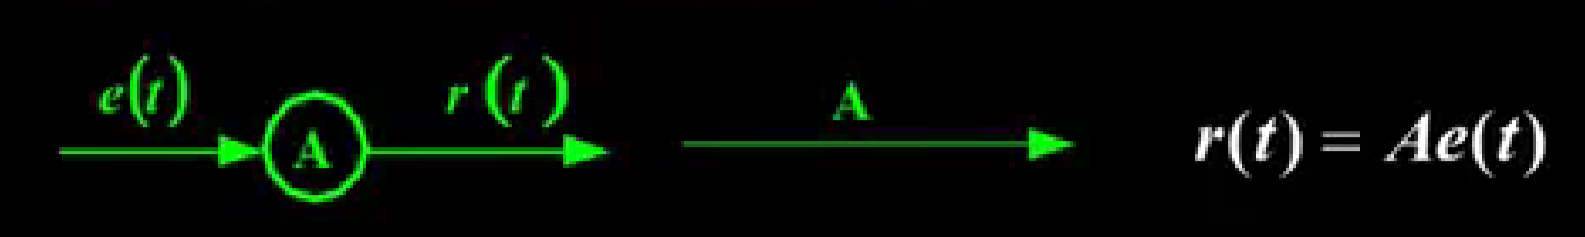
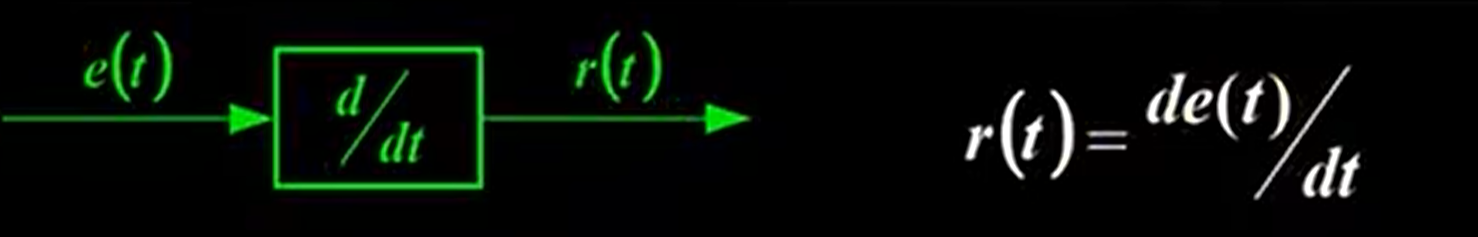
2023/12/23

Changed region(s): [[0.0, 0.1181, 0.9959, 0.8565], [0.9026, 0.2658, 0.9337, 0.3544]]

diff --git a/docs/md/系统模型及其分类.md b/docs/md/系统模型及其分类.md
@@ -1,160 +1,32 @@
-    
-# 信号的时域运算（基本元件）
-* 加法器
-
-    ![Alt text](image-339.png)
-
-* 乘法器
-
-    ![Alt text](image-340.png)
-
-* 标量乘法器（数乘器，比例器）
-
-    ![Alt text](image-341.png)
-
-* 微分器
-
-    ![Alt text](image-342.png)
-
-* 积分器
-
-    ![Alt text](image-343.png)
-
-* 延时器
-
-    ![Alt text](image-344.png)
-
-![Alt text](image-345.png)
-
-# 系统的概念
-* 系统：相互联系的事物组成特定功能的整体
-
-![Alt text](image-351.png)
-
-* 由电路图写成**微分方程**
+# 信号的时域运算
+1. 加法器
 
     ![Alt text](image-192.png)
 
-    * 电阻：$i_R(t)=\frac{v(t)}{R}$
+2. 乘法器
 
-    * 电感：$i_L(t)=\frac {\int_{-\infty}^t v(\tau)d\tau}{L}$
+    ![Alt text](image-339.png)
 
-    * 电容：$i_C(t)=C\frac{dv(t)}{dt}$
+3. 标量乘法器（数乘器、比例器）
 
-    * 根据KCL：
-        $$
-        i_s(t)=i_R(t)+i_L(t)+i_C(t)\\
-        ~\\
-        i_s(t)=\frac{v(t)}{R}+\frac{\int_{-\infty}^{t}v(\tau)d\tau}{L}+C\frac{dv(t)}{dt}\\
-        ~\\
-        \frac{di_s(t)}{dt}=\frac 1R\cdot\frac{v(t)}{dt}+\frac{v(t)}{L}+C\frac{d^2v(t)}{dt^2}
-        $$
+    ![Alt text](image-340.png)
 
+4. 微分器
 
-* 由系统框图写成**微分方程**
+    ![Alt text](image-341.png)
 
-    ![Alt text](image-352.png)
+5. 积分器
 
-    ![Alt text](image-353.png)
+    ![Alt text](image-342.png)
 
-* 由系统框图写成**差分方程**
+6. 延时器
 
-    ![Alt text](image-354.png)
-
-    ![Alt text](image-355.png)
-
-* n阶线性时不变系统的描述
-    > 一个线性系统，其激励信号$e(t)$与响应信号$r(t)$之间的关系，可以用下列形式的微分方程式描述
-
-    $$
-    C_0\frac{d^nr(t)}{dt^n}+C_1\frac{d^{n-1}r(t)}{dt^{n-1}}+...+C_{n-1}\frac{dr(t)}{dt}+C_nr(t)\\
-    ~\\
-    =E_0\frac{d^me(t)}{dt^m}+E_1\frac{d^{m-1}e(t)}{dt^{m-1}}+...+E_{m-1}\frac{de(t)}{dt}+E_me(t)
-    $$
-
-    > 若系统为时不变的，则C、E为常数，此方程为常系数的n阶线性**常微分**方程
-
-## 求解系统微分方程的经典法
-
-
-* 齐次解：由特征方程得出特征根，写出齐次解形式
-    > 求微分方程：$\frac{d^3}{dt^3}r(t)+7\frac{d^2}r(t)+16\frac{d}{dt}r(t)+12r(t)=e(t)$
-    
-    > 系统的特征方程为：$\alpha^3+7\alpha^2+16\alpha+12=0$
-    
-    > 特征根：$\alpha_1=-2$（重根），$\alpha_2=-3$
-
-    > 对应的齐次解：$r_h(t)=(A_1t+A_2)e^{-2t}+A_3e^{-3t}$
-
-* 特解：根据微分方程右端函数式的形式，设含待定系数的特解函数式（由下图可得），代入原方程，比较系数得出特解
-
-    ![Alt text](image-356.png)
-
-    > 给定方程：$\frac{d^2r(t)}{dt^2}+2\frac{dr(t)}{dt}+3r(t)=\frac{de(t)}{dt}+e(t)$
-
-    > 如果已知：$e(t)=t^2$，求此方程的特解
-
-    > 将$e(t)=t^2$代入方程右侧，得到$t^2+2t$，为使得等式两端平衡，**从图中**试选特解函数式$r_p(t)=B_1t^2+B_2t+B_3$
-
-    > 这里，$B_1,B_2,B_3$为待定系数，将此式**代入**方程得到$3B_1t^2+(4B_1+3B_2)t+(2B_1+2B_2+3B_3)=t^2+2t$
-
-    > 等式两端各对应幂次的系数应相等，解得$B_1=\frac13$，$B_2=\frac29$，$B_3=-\frac{10}{27}$
-
-    > 得出特解：$r_p(t)=\frac13t^2+\frac29t-\frac{10}{27}$
-
-* 全解：齐次解$r_h$+特解$r_p$，由初始条件定出齐次解的$A_k$（齐次解的系数）。即将激励信号加入的时刻定义为0，响应为$t>=0^+$时的方程的解，初始条件$r(0^+)$，$\frac{dr(0^+)}{dt}$，$\frac{d^2r(0^+)}{dt^2}$，...，$\frac{d^{n-1}r(0^+)}{dt^{n-1}}$
-    > **电压**对时间的一阶导数是**电流**，在由初始条件计算齐次解的系数时可能会用上
+    ![Alt text](image-343.png)
 
 # 系统的分类
-* 系统：具有特定功能的总体，可以看作信号的变换器、处理器
-* 连续与离散时间系统：
-    * 连续时间系统：输入和输出都是连续时间信号的系统
 
-    * 离散时间系统：输出和输出都是离散时间信号的系统
+![Alt text](image-344.png)
 
-    * 混合系统：输入和输出一个是连续时间信号，另一个为离散时间信号
+![Alt text](image-345.png)
 
-    * 描述连续时间系统的数学模型是**微分方程**，描述离散时间系统的数学模型是**差分方程**
-
-    * 连续时间系统可表示为$y(t)=T[x(t)]$，离散时间系统可表示为$y(n)=T[x(n)]$
-
-* 无记忆和记忆系统
-    * 无记忆系统：若一个系统的输出**只与同时刻的输入有关**，而与它过去的工作状态无关，则系统是无记忆的
-
-    * 记忆系统：若一个系统的输出不仅与同时刻的输入有关，而且**与它过去的工作状态有关**，则系统是由记忆的
-
-    ![Alt text](image-357.png)
-
-* 因果与非因果系统
-    * 系统的输出**只与同时刻或之前时刻的输入有关**，与该时刻之后的输入无关，则该系统是**因果的**，否则是**非因果**系统
-
-    ![Alt text](image-358.png)
-
-* 稳定与不稳定系统
-    * 稳定性：如果一个系统当**输入有界**时，产生的**输出也是有界**的
-
-    ![Alt text](image-359.png)
-
-* 可逆与不可逆系统
-    * 若系统在**不同激励**信号作用下产生**不同的响应**，则称此系统为**可逆系统**。对于每个可逆系统都存在一个“逆系统”，当原系统与此逆系统**级联组合**后，输出信号与输入信号**相同**
-
-    ![Alt text](image-360.png)
-
-* 时不变与时变系统
-    * **在零初始状态条件下**。若时不变系统的激励延时，则响应作同样的延时且波形不变
-
-    ![Alt text](image-361.png)
-
-* 线性与非线性系统
-    * 线性系统：（**在零初始状态条件下**）满足**齐次性**和**叠加性**的系统
-
-    ![Alt text](image-362.png)
-
-    * 增量线性系统：这类系统的**输出响应**增量与**输入信号**增量之间满足线性特性
-
-    ![Alt text](image-363.png)
-
-    * 增量线性系统的等效：$y(t)=T[\textcolor{red}{s(0)},x(t)]=\textcolor{red}{y_0(t)}+y_1(t)$
-
-        ![Alt text](image-364.png)
-        
+![Alt text](image-346.png)

diff --git a/docs/md/essay/更新记录.md b/docs/md/essay/更新记录.md
@@ -1,13 +1,14 @@
 **记录**
 ------------------------------------------
 * 2023/12/23
-    * 信号与系统/信号的描述与分类
-    * 信号与系统/典型信号
-    * 信号与系统/信号的运算
-    * 信号与系统/阶跃信号和冲激信号
-    * 信号与系统/冲激信号的性质
-    * 信号与系统/
-    * 信号与系统/
+    * 信号与系统/第一章/信号的描述与分类
+    * 信号与系统/第一章/典型信号
+    * 信号与系统/第一章/信号的运算
+    * 信号与系统/第一章/阶跃信号和冲激信号
+    * 信号与系统/第一章/冲激信号的性质
+    * 信号与系统/第一章/信号的分解
+    * 信号与系统/第一章/系统模型及其分类
+    * 信号与系统/第一章/线性时不变系统
 
 * 2023/12/21
     * 离散数学/集合代数基础

diff --git a/docs/README.md b/docs/README.md
@@ -4,17 +4,12 @@
 
 
 <div id="D5rrr's picture"align="center">
-   <img src="https://readme-typing-svg.demolab.com?font=Fira+Code&pause=1000&width=435&lines=D5rrr&center=true&size=27"/>
+   <img src="https://readme-typing-svg.demolab.com?font=Fira+Code&pause=1000&width=435&lines=D5&center=true&size=27"/>
 </div>
 
 
 <div id="graph" align="center">
     <img src="https://ghchart.rshah.org/D5rrr"/>
-</div>
-
-
-<div id="commit graph" align="center">
-    <img src=https://github-readme-activity-graph.vercel.app/graph?username=d5rrr&bg_color=ffffff&color=000000&title_color=000000&line=000000&point=000000&area_color=000000&custom_title=Commits">
 </div>
 
 

diff --git a/docs/md/essay/信号与系统.md b/docs/md/essay/信号与系统.md
@@ -1,4 +1,4 @@
-1. 诸论
+* 第一章
     * [信号的描述与分类](md/信号的描述与分类.md)
 
     * [典型信号](md/典型信号.md)
@@ -9,13 +9,16 @@
 
     * [冲激信号的性质](md/冲激信号的性质.md)
 
+    * [信号的分解](md/信号的分解.md)
 
-    
-    * [信号的分解]
     * [系统模型及其分类](md/系统模型及其分类.md)
+
+
+
+
     * [线性时不变系统](md/线性时不变系统.md)
 
-2. 连续时间系统的时域分析
+2. 第二章
     
 
 

diff --git a/docs/侧边栏.md b/docs/侧边栏.md
@@ -18,12 +18,14 @@
     * [模拟电路](md/essay/模拟电路.md)
 
     * [机械设计基础](md/essay/机械设计基础.md)
-    
-* 以后完成
+
+* 大二下
+
+<!-- * 以后完成
     * [汇编]md/essay/汇编.md
     * [51单片机]md/essay/51单片机.md
     * [操作系统]
     * [计算机组成原理]
     * [计算机网络]
     * [数字电路与逻辑设计]
-    * [STM32]
+    * [STM32] -->

diff --git a/docs/md/信号的分解.md b/docs/md/信号的分解.md
@@ -1,0 +1,23 @@
+# 信号的分解
+* 直流分量与交流分量
+
+    ![Alt text](image-790.png)
+
+* 偶分量与奇分量
+
+    ![Alt text](image-791.png)
+
+* 脉冲分量
+
+    ![Alt text](image-792.png)
+
+    ![Alt text](image-793.png)
+
+* 实部分量和虚部分量
+
+    ![Alt text](image-794.png)
+
+* 正交函数分量
+
+    ![Alt text](image-795.png)
+    

diff --git a/docs/md/冲激信号的性质.md b/docs/md/冲激信号的性质.md
@@ -6,3 +6,20 @@
     ![Alt text](image-784.png)
 
 2. 奇偶性
+
+    ![Alt text](image-785.png)
+
+3. 冲激偶
+
+    ![Alt text](image-786.png)
+
+    1. 冲激偶的性质
+
+        ![Alt text](image-787.png)
+
+        ![Alt text](image-788.png)
+
+4. 对$\delta(t)$的标度变换
+
+    ![Alt text](image-789.png)
+    
